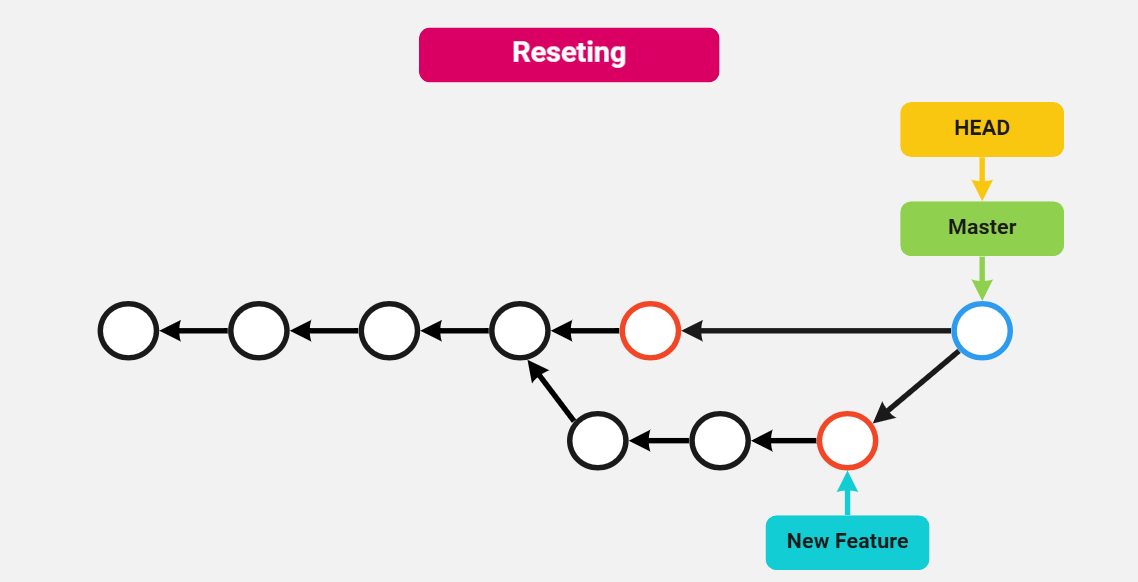
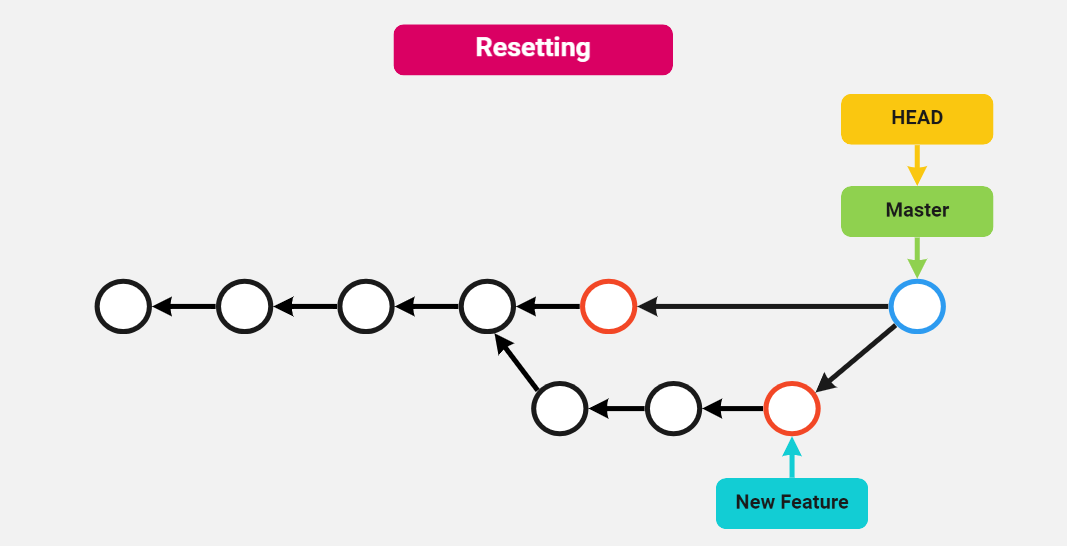
fix typos

diff --git a/04_branching/14_undoing_a_merge.html b/04_branching/14_undoing_a_merge.html
@@ -31,13 +31,13 @@
 
       <div class="row">
         <div class="left-col">
-          <p>Sometimes we do a merge and realize that our program stoped working and we want to undo it. Here we have two options: 1) undoing the commit as if had never been there (called reseting), 2) create a new commit that cancels out all the changes in our merge commit (called reverting).</p>
+          <p>Sometimes we do a merge and realize that our program stopped working and we want to undo it. Here we have two options: 1) undoing the commit as if had never been there (called resetting), 2) create a new commit that cancels out all the changes in our merge commit (called reverting).</p>
           <br>
-          <p>When reseting we have to be very careful because we are re-writting history. If the changes only exist on our local repository that is OK. But if we have already shared the changes with the rest of our team we should <span class="here">NEVER</span> re-write history.</p>
+          <p>When resetting we have to be very careful because we are re-writing history. If the changes only exist on our local repository that is OK. But if we have already shared the changes with the rest of our team we should <span class="here">NEVER</span> re-write history.</p>
           <br>
-          <p>The diagrams below explain the two situations. In both of them we begin form the same starting point: a merger commit has taken place, merging a branch called <span class="git-aqua">new-feature</span> into <span class="git-aqua">master</span>. The difference is that when we use <em>reset</em> we move the <span class="git-green">master</span> pointer back to its parent commit (the commit with red border that is before the merge commit, and in the <span class="git-green">master</span> branch). Beacuse there are now no commits or pointers pointing to our merger commit, Git will <em>Garbage Collect</em> this commit and throw it away.</p>
+          <p>The diagrams below explain the two situations. In both of them, we begin from the same starting point: a merger commit has taken place, merging a branch called <span class="git-aqua">new-feature</span> into <span class="git-aqua">master</span>. The difference is that when we use <em>reset</em> we move the <span class="git-green">master</span> pointer back to its parent commit (the commit with a red border that is before the merge commit, and in the <span class="git-green">master</span> branch). Because there are now no commits or pointers pointing to our merger commit, Git will <em>Garbage Collect</em> this commit and throw it away.</p>
           <br>
-          <p>On the other hand, when we use a <em>revert</em> we are creating a new commit that comes after the merge commit, and moving the <span class="git-green">HEAD</span> pointer onto this new commit (shown in blue with white border on the diagram). This commit makes all the opposite changes as those that were done on the merge commit. One thing to consider when reverting mergers is that the merge commit actually has two parent commits: one on <span class="git-green">master</span>, and one on <span class="git-green">new-feature</span>. We'll have to specify Git which commit to revert to and, since we'll do it from the <span class="git-green">master</span> branch (because it's the branch that was modified with the merger) we'll reverto to the parent commit on this branch.</p>
+          <p>On the other hand, when we use a <em>revert</em> we are creating a new commit that comes after the merge commit, and moving the <span class="git-green">HEAD</span> pointer onto this new commit (shown in blue with white border on the diagram). This commit makes all the opposite changes as those that were done on the merge commit. One thing to consider when reverting mergers is that the merge commit actually has two parent commits: one on <span class="git-green">master</span> and one on <span class="git-green">new-feature</span>. We'll have to specify Git which commit to revert to and, since we'll do it from the <span class="git-green">master</span> branch (because it's the branch that was modified with the merger), we'll revert to the parent commit on this branch.</p>
         </div>
       </div>
 
@@ -62,7 +62,7 @@
 
       <div class="row">
         <div class="left-col">
-          <p>Before we start, let's take a look at our log. We'll do both operations on commit <em>3a485a4</em>, which is our last merge commit. Before starting an operation like this, it's always recommended that you wirte down the ID for the commit you are going to revert or reset. You can delete it once done.</p>
+          <p>Before we start, let's take a look at our log. We'll do both operations on commit <em>3a485a4</em>, which is our last merge commit. Before starting an operation like this, it's always recommended that you write down the ID for the commit you are going to revert or reset. You can delete it once done.</p>
         </div>
         <div class="right-col">
           <img src="../img/undoing-a-merge-5.png" alt="" class="git-bash-img">
@@ -75,9 +75,9 @@
         <div class="single-col">
           <p>We'll start with the <em>reset</em> option. But before we do we need to clarify some terminology. The <span class="inline-code">git reset</span> command has three options:</p>
           <ul>
-            <li><span class="inline-code">--soft</span>: Git will have our repository point to a different commit, but our index and workingtree will not be afected.</li>
+            <li><span class="inline-code">--soft</span>: Git will have our repository point to a different commit, but our index and working tree will not be affected.</li>
             <li><span class="inline-code">--mixed</span>: Git will take the new snapshot and put it in the index as well. This is de default option so we don't need to specify it.</li>
-            <li><span class="inline-code">--hard</span>: Git will take the new snapshot and copy it to both the index and the workingtree. This means that all environments will look the same.</li>
+            <li><span class="inline-code">--hard</span>: Git will take the new snapshot and copy it to both the index and the working tree. This means that all environments will look the same. It also means that all local changes in our working-tree will be lost, so make sure to stash them before resetting.</li>
           </ul>
         </div>
       </div>
@@ -91,7 +91,7 @@
           <div class="code">
             <code>git reset --hard HEAD~1</code>
           </div>
-          <p>We can see that both <span class="git-aqua">HEAD</span> and <spna class="git-green">master</spna> are now at commit <em>b03190d</em>, and the merge commit has disapeared from our tree. The commit is still in our repository thou, and we can recover it (until the <em>Garbage Collector</em> takes it away for good).</p>
+          <p>We can see that both <span class="git-aqua">HEAD</span> and <spna class="git-green">master</spna> are now at commit <em>b03190d</em>, and the merge commit has disappeared from our tree. The commit is still in our repository thou, and we can recover it (until the <em>Garbage Collector</em> takes it away for good).</p>
         </div>
       </div>
 
